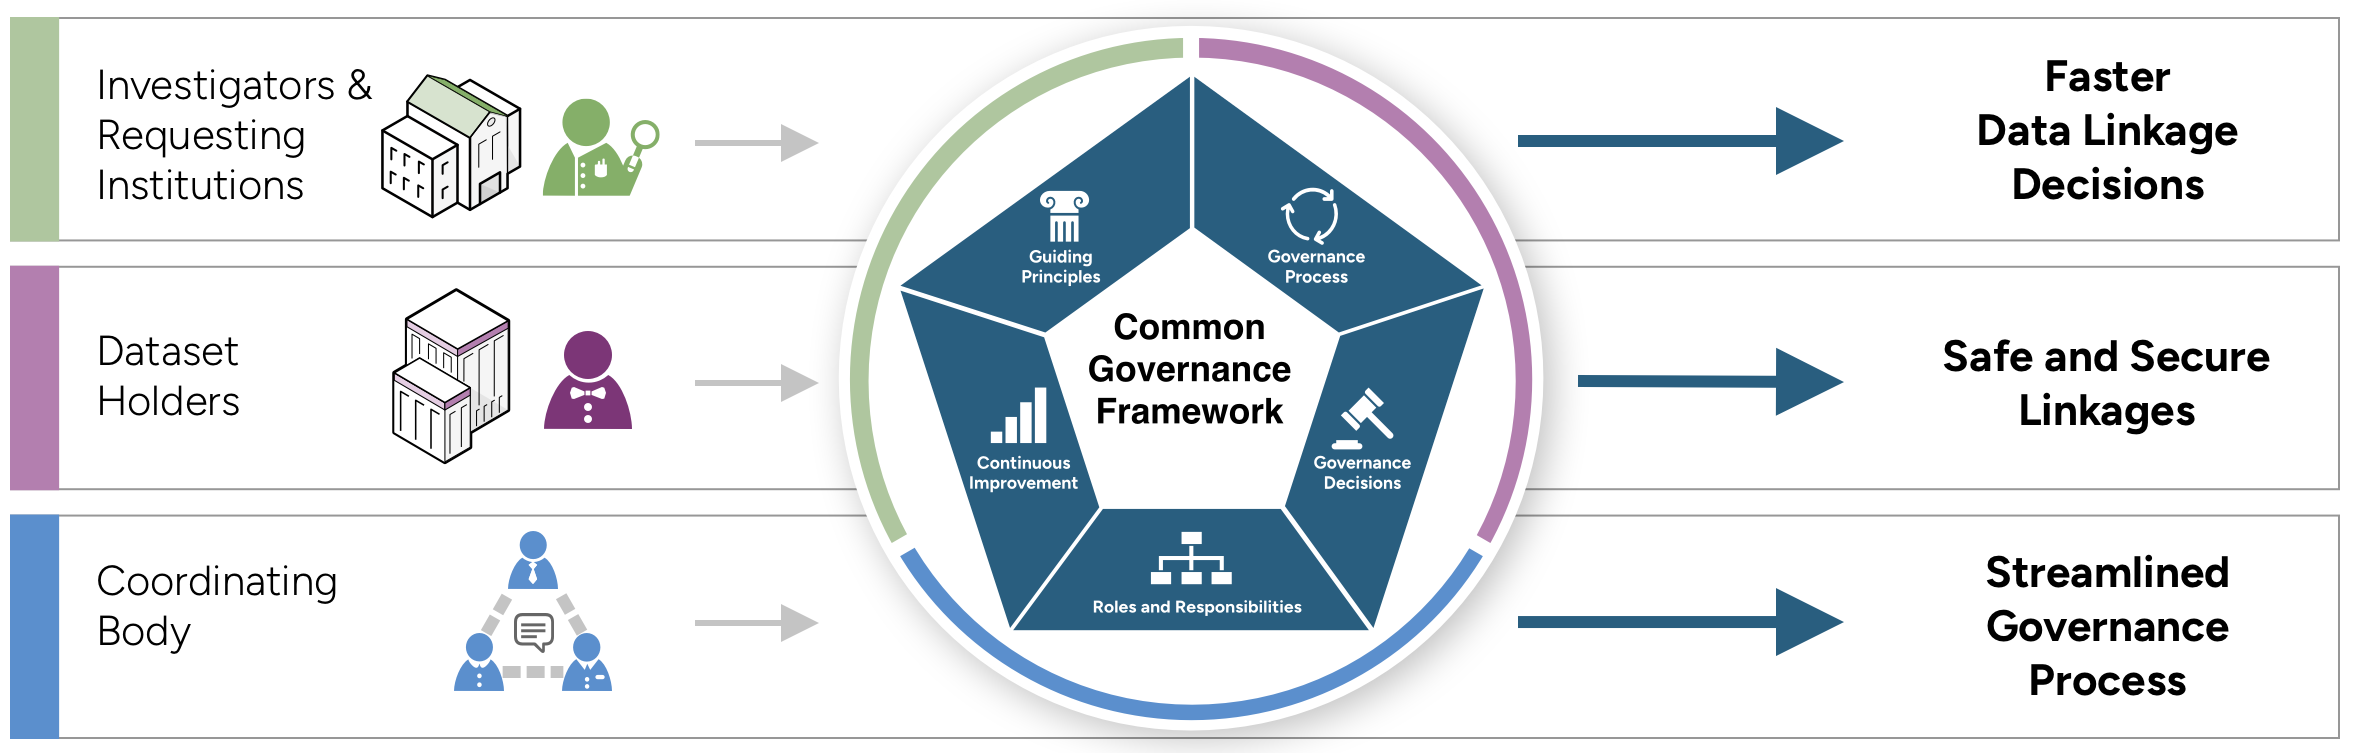
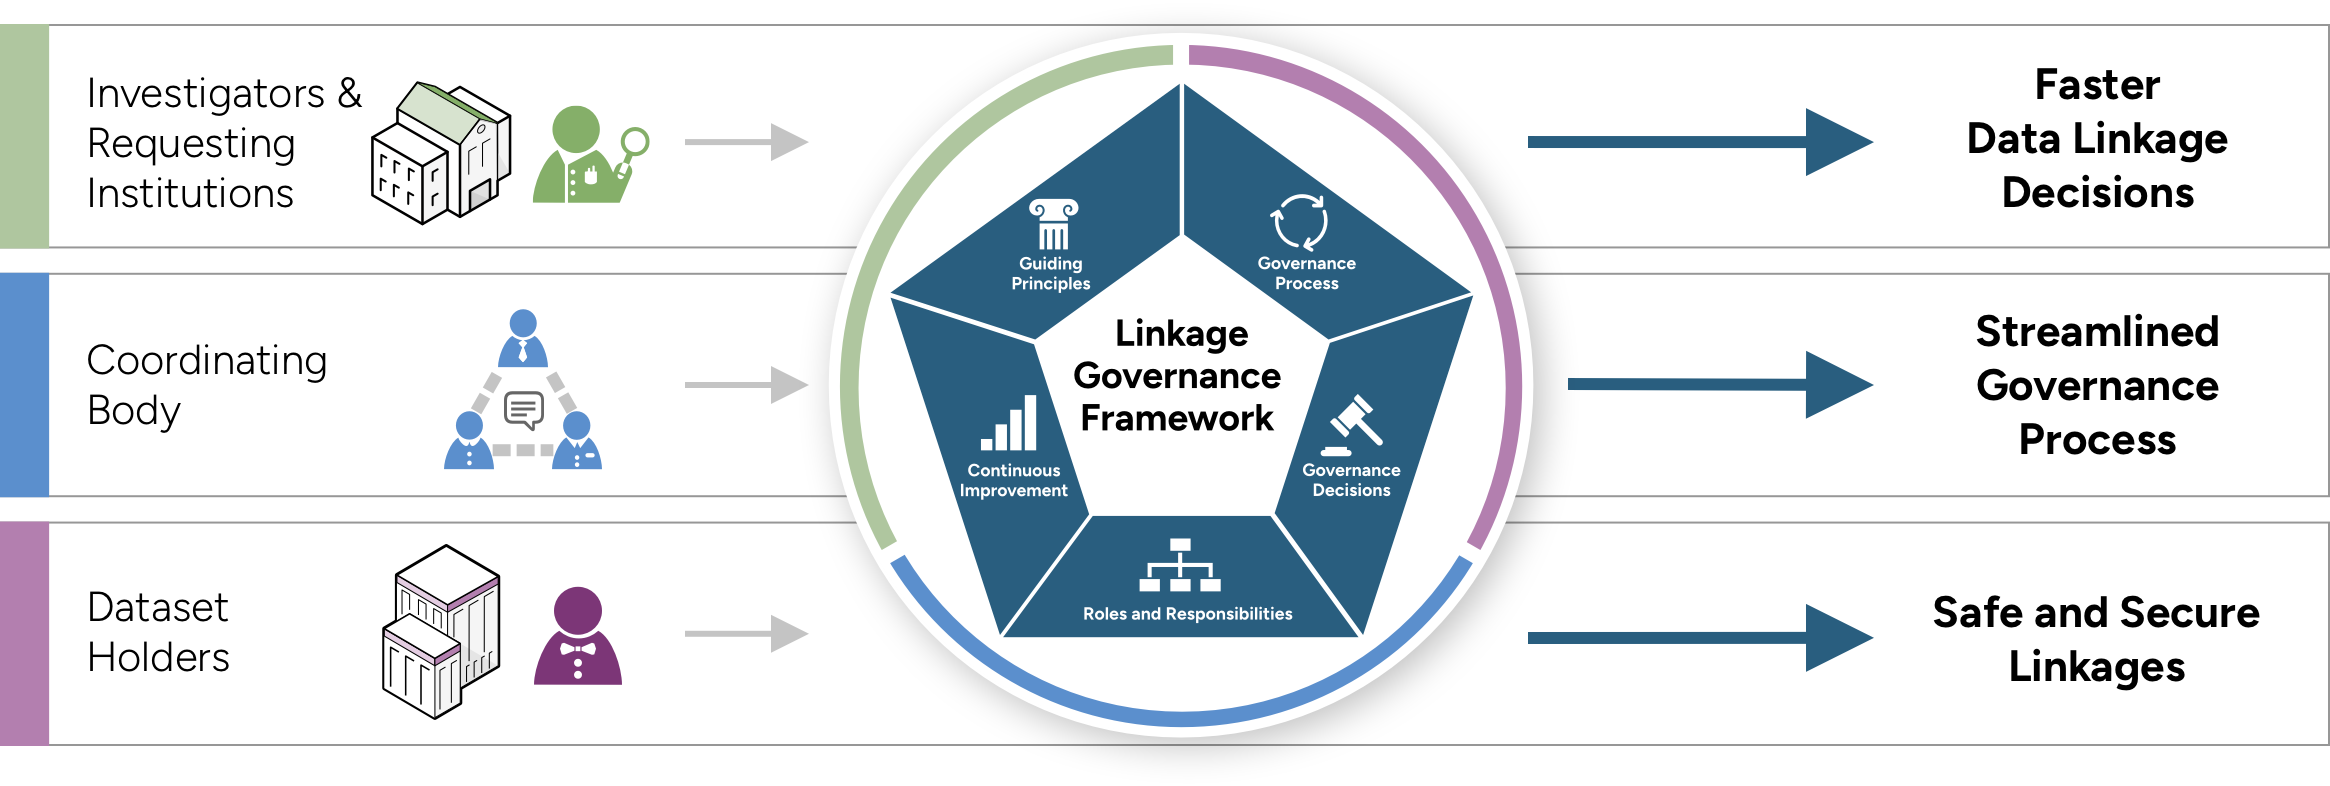
Switch to Linkage, add content, HtmlBase plugin

diff --git a/_includes/footer.html b/_includes/footer.html
@@ -3,8 +3,8 @@
     <div class="grid-container">
       <div class="grid-row">
         <div class="grid-col usa-dark-background">
-          <p class="margin-bottom-0 text-white"> This site is maintained by <a class="usa-link text-primary-dark" href="https://www.mitre.org"> MITRE.</a>.</p>
-          <p class="margin-bottom-4 margin-top-05 text-white"><a class="usa-link text-primary-dark" href="https://github.com/">Somewhere on Github</a>.</p>
+          <p class="margin-bottom-0 text-white"> This site is maintained by <a class="usa-link text-primary-dark" href="https://www.mitre.org"> MITRE</a>.</p>
+          <p class="margin-bottom-4 margin-top-05 text-white"><a class="usa-link text-primary-dark" href="https://github.com/">{% image_with_class "./assets/_common/_img/github-white.svg" "inline-logo" "Github Logo"%} Linkage Governance Framework on Github</a>.</p>
         </div>
       </div>
     </div>

diff --git a/_includes/logo.html b/_includes/logo.html
@@ -1,4 +1,4 @@
 <div class="usa-logo" id="extended-logo">
   {% assign root =  "/" %}
-  <a class="display-flex flex-align-center" href="{{ root | url }}" title="Home" aria-label="Home">{% image_with_class "assets/_common/_img/cgf-logo.png" "site-logo" "Common Governance Framework" %}<em class="usa-logo__text">{{site.title}}</em></a>
+  <a class="display-flex flex-align-center" href="{{ root | url }}" title="Home" aria-label="Home">{% image_with_class "assets/_common/_img/LinkageGovernanceFramework_logo.png" "site-logo" "Linkage Governance Framework" %}<!-- em class="usa-logo__text">{{site.title}}</em --></a>
 </div>

diff --git a/.eleventy.js b/.eleventy.js
@@ -1,5 +1,5 @@
 const fs = require('fs');
-const { EleventyRenderPlugin } = require("@11ty/eleventy");
+const { EleventyRenderPlugin, HtmlBasePlugin } = require("@11ty/eleventy");
 const pluginNavigation = require('@11ty/eleventy-navigation');
 
 const yaml = require("js-yaml");
@@ -11,6 +11,7 @@ module.exports = function(config) {
   let pathPrefix = '/';
 
   config.addPlugin(EleventyRenderPlugin);
+  config.addPlugin(HtmlBasePlugin);
 
   // Copy the robots.txt file to the output
   config.addPassthroughCopy('robots.txt');

diff --git a/assets/_common/styles/styles.scss b/assets/_common/styles/styles.scss
@@ -14,3 +14,4 @@ Custom styling
 .usa-prose > p {max-width:96ex}
 .img96ex {max-width:96ex}
 .site-logo {height:100px}
+.inline-logo {position:relative;top:5px}

diff --git a/index.md b/index.md
@@ -1,39 +1,30 @@
 ---
 permalink: /
-title: Common Governance Framework Visual Model
+title: Linkage Governance Framework
 layout: layouts/default
 nav: cgf
 eleventyNavigation:
   key: cgf
   order: 1
   title: About this guide
-description: Common Governance Framework for Linking Individual-level Health Data for Research
+description: Linkage Governance Framework to Connect Individual-level Health Data for Research
 ---
 
 <div class="usa-section layout--sections">
   <section class="usa-prose grid-container section usa-section section--inbound">
 
-# Common Governance Process to Link Individual-level Health data for Research
+# Linkage Governance Framework to Connect Individual-Level Health Data for Research
 
-Linking individual-level health data across data sources to connect complementary data types increases the patterns and interrelationships that a researcher may explore to accelerate discoveries for prevention, diagnostics, and treatments. Current biomedical research infrastructure lacks a common governance approach that supports linking data for research, including studies of cancer and patient-centered outcomes research. 
+Linking individual-level health data across data sources to connect complementary data types increases the patterns and interrelationships that a researcher may explore to accelerate discoveries for prevention, diagnostics, and treatments. Current biomedical research infrastructure lacks a common governance approach that supports linking data for research, including studies of cancer and patient-centered outcomes research. Read about the [current challenges with data linkage](/problem).
 
-## What is the common governance framework?
+## What is the linkage governance framework?
 
-The Common Governance Framework to Link Individual-level Health Data for Research (the Common Governance Framework) is a structured approach for seeking approval from Dataset Holders and harmonizing governance rules across datasets to enable safe and secure linkage of individual-level health data for research. The Common Governance Framework is designed for complex linkages where governance makes the linkage of multiple datasets especially difficult. It aims to accelerate access to data by reducing the burden of adjudicating governance conflicts and gaining required approvals. 
+The [Linkage Governance Framework](/framework) is a structured approach for seeking approval from Dataset Holders and harmonizing governance rules across datasets to enable safe and secure linkage of individual-level health data for research. The Linkage Governance Framework is designed for complex linkages where governance makes the linkage of multiple datasets especially difficult. It aims to accelerate access to data by reducing the burden of adjudicating governance conflicts and gaining required approvals. 
 
-{% image_with_class "assets/resources/img/placemat.png" "img96ex" "Diagram of Common Governance Framework" %}
+{% image_with_class "assets/resources/img/placemat.png" "img96ex" "Diagram of Linkage Governance Framework" %}
 
-The Common Governance Framework is a proof of concept that requires testing for feasibility, practicality, scalability, and effectiveness. Lessons learned from testing this new approach and process will be used to further refine and enhance the framework with the eventual goal of full-scale implementation and widespread availability across research communities.
+The Linkage Governance Framework is a proof of concept that requires testing for feasibility, practicality, scalability, and effectiveness. Lessons learned from testing this new approach and process will be used to further refine and enhance the framework with the eventual goal of full-scale implementation and widespread availability across research communities.
 
-## What Does Linking Individual-level Health Data Mean?
-
-Linkage and linking data are not terms with single consensus definitions. This Playbook is focused on linking individual-level health data, which is defined as health-related person-level data that is found in electronic health records (EHRs), research repositories, registries, and other data systems and may or may not include **protected health information (PHI)** or **personally identifiable information (PII)**.
-
-An individual (patient) often has relevant health data in multiple independent datasets. These **“originating” datasets** can be EHRs that hold clinical records from doctor or hospital visits, national or state health tracking systems such as cancer registries, or research data repositories that hold data from participation in research studies. Individual-level linkage in this Playbook refers to bringing the information present in disparate originating datasets together at an individual level within a resulting linked dataset. This requires recognizing or matching the same individual across the originating datasets. Many methods exist to match individuals across the originating datasets. Some methods require shared identifiers such as names, addresses, dates of birth, and social security numbers. Other methods use common de-identified tokens that are generated from identifiers and known only to the Dataset Holder and an honest broker (e.g., privacy-preserving record linkage or PPRL). For either method, the resulting linked dataset may or may not remove all PII and/or PHI from the originating datasets.
-
-By combining data elements at the individual level from all originating datasets, the resulting linked dataset will contain more complete information about an individual. However, the resulting linked dataset will not necessarily include all data elements present in originating datasets. Additionally, the resulting linked dataset will usually include fewer individuals than those present across the originating datasets. Each originating dataset has an independent set of participants so complete information in the resulting dataset will only be available for those individuals present in all originating datasets (the overlap of the originating datasets). The number of individuals in the resulting linked dataset may be further reduced when applying inclusion and/or exclusion criteria such as a specific type of cancer or a desired age range. The size of the study population (number of individuals in the linked dataset) is of crucial importance to the Investigator’s ability to draw statistically meaningful conclusions.
-
-Once created, linked datasets may be linked with additional data (subject to the governance rules of the linked datasets) to create subsequent linked datasets. As such, data that Investigators want to link may already be a product of previous linkages. These further linkages are only possible if identifying information for the individual is maintained either in the linked dataset or by an honest broker for the linked dataset.
 
   </section>
 </div>

diff --git a/src/problem/index.md b/src/problem/index.md
@@ -1,0 +1,32 @@
+---
+title: Problem Overview
+description: 'What are the current barriers to data linkage'
+permalink: /problem/
+layout: layouts/page
+nav: cgf
+eleventyNavigation:
+  parent: cgf-problem
+  key: cgf-problem-main
+  order: 1
+  title: Problem Overview
+sidenav: true
+sticky_sidenav: true
+---
+
+# Problem Overview
+
+## What is individual-level linkage?
+
+People often have health data held in multiple systems. These datasets range from a person’s electronic health record (EHR), to records in stored in repositories from participation in research, health insurance claims, data from wearables, etc. A person’s data, referred to as individual-level health data, from different datasets can be matched and linked to create a new dataset containing more complete information about an individual and her or his health.
+
+## Why is linkage important for research?
+
+Linking individual-level health data from multiple systems or datasets creates a fuller picture of the person and his or her health over time. When researchers can study linked data, they can investigate and understand more factors contributing to health and illness. This can drive innovative research questions and accelerate discoveries that ultimately improve health.
+
+## What are the current barriers to linkage?
+
+There are many challenges to linking individual-level health data. While some of these are challenges are technological, this project is focused on data governance challenges. Data governance is the policies and processes that protect people’s health information and their privacy by making sure their information is secure and only used in permitted and ethical ways. Every dataset has its own governance that establishes the rules around data access, linkage, sharing, use and dissemination. 
+
+When researchers attempt to link data, they may face challenges that are hard to overcome: submitting requests to multiple organizations for permission to access their datasets for linkage can be a time-consuming, require intense effort, and be redundant. Sometimes, despite this effort, the researcher learns that datasets have conflicting governance rules that block the linkage. Researchers do not have access to a process that will help coordinate among dataset holders to determine whether and how conflicts can be overcome so research can proceed. 
+
+Organizations appreciate the importance of their datasets for advancing research. Their governance rules and processes are established to protect their data and gather the information they need to assess whether data access can be granted. These governance rules and information gathering processes are generally for linkage with another single dataset and not for two or more. Dataset holders are not coordinated so they can work together to explore whether they can harmonize conflicting governance rule conflicts and allow research to take place.

diff --git a/src/about/index.md b/src/about/index.md
@@ -1,14 +1,12 @@
 ---
-title: About Common Governance Framework
-description: 'Learn more about the Common Governance Framework'
+title: About Linkage Governance Framework
+description: 'Learn more about the Linkage Governance Framework'
 permalink: /about/
 layout: layouts/page
 nav: cgf
 
 ---
 
-# About the Common Governance Framework
+# About the Linkage Governance Framework
 
-The Common Governance Framework is an effort by the NIH National Cancer Institute to address the challenges of creating linked data sets in a safe, secure and efficient manner.
-
-Etc, etc...
+The Linkage Governance Framework is part of a [larger project](https://aspe.hhs.gov/creating-new-data-research-environment) funded through the Office of the Secretary Patient-Centered Outcomes Research Trust Fund (OS-PCORTF) to the National Cancer Institute (NCI). The OS-PCORTF is charged with building data capacity for patient-centered outcomes research. Coordinated by the Office of the Assistant Secretary for Planning and Evaluation (ASPE) on behalf of the Department of Health and Human Services (HHS), the OS-PCORTF has funded a rich portfolio of projects to meet emerging HHS policy priorities and fill gaps in data infrastructure to enhance capabilities to collect, link, and analyze data for patient-centered outcomes research.

diff --git a/src/usecases/index.md b/src/usecases/index.md
@@ -1,6 +1,6 @@
 ---
 title: Use Cases
-description: 'Example use cases for the Common Governance Framework'
+description: 'Example use cases for the Linkage Governance Framework'
 permalink: /usecases/
 layout: layouts/page
 nav: cgf
@@ -16,11 +16,11 @@ sticky_sidenav: true
 
 # Example Use Cases
 
-This page will describe the example use cases for the Common Governance Framework. A summary of each use case will be here, with a full description on another page.
+This page will describe the example use cases for the Linkage Governance Framework. A summary of each use case will be here, with a full description on another page.
 
 These use cases will likely describe how each of the three roles (investigator at a requesting institution, dataset holder and coordinating body member) would participate in the governance process.
 
-These pages could also describe operational exercises, or realistic scenarios which demonstrate how the Common Governance Framework solves linkage issues.
+These pages could also describe operational exercises, or realistic scenarios which demonstrate how the Linkage Governance Framework solves linkage issues.
 
   {% for case in collections.usecase %}
     <h2>

diff --git a/src/resources/index.md b/src/resources/index.md
@@ -1,6 +1,6 @@
 ---
 title: Resources
-description: 'Resources for the Common Governance Framework'
+description: 'Resources for the Linkage Governance Framework'
 permalink: /resources/
 layout: layouts/page
 nav: cgf
@@ -9,11 +9,11 @@ nav: cgf
 
 # Resources
 
-There are many resources associated with the Common Governance Framework. You can download some of these files to learn more.
+There are many resources associated with the Linkage Governance Framework. You can download some of these files to learn more.
 
 ## Playbook
 
-You may download the <a href="#">latest version of the Playbook</a>, a detailed description of how the Common Governance Framework can be put into practice.
+You may download the <a href="#">latest version of the Playbook</a>, a detailed description of how the Linkage Governance Framework can be put into practice.
 
 ## Request Package
 

diff --git a/src/framework/index.md b/src/framework/index.md
@@ -13,8 +13,8 @@ sidenav: true
 sticky_sidenav: true
 ---
 
-# About the Common Governance Framework
+# About the Linkage Governance Framework
 
-This is the section page for the Common Governance Framework. It will describe the use of the Common Governance Framework and how it may be put into practice.
+This is the section page for the Linkage Governance Framework. It will describe the use of the Linkage Governance Framework and how it may be put into practice.
 
 You can read about the [Playbook](/framework/playbook.html) 

diff --git a/README.md b/README.md
@@ -1,5 +1,5 @@
-# Common Governance Framework Visual Model
-This website describes the Common Governance Framework.
+# Linkage Governance Framework Visual Model
+This website describes the Linkage Governance Framework.
 
 The site is built using [11ty](https://www.11ty.dev/) static site generator and [U.S. Web Design System v3.0 (USWDS)](https://designsystem.digital.gov/).
 

diff --git a/src/framework/playbook.md b/src/framework/playbook.md
@@ -18,5 +18,5 @@ sticky_sidenav: true
 
 # The Playbook
 
-Description of the Playbook for the Common Governance Framework.
+Description of the Playbook for the Linkage Governance Framework.
 
